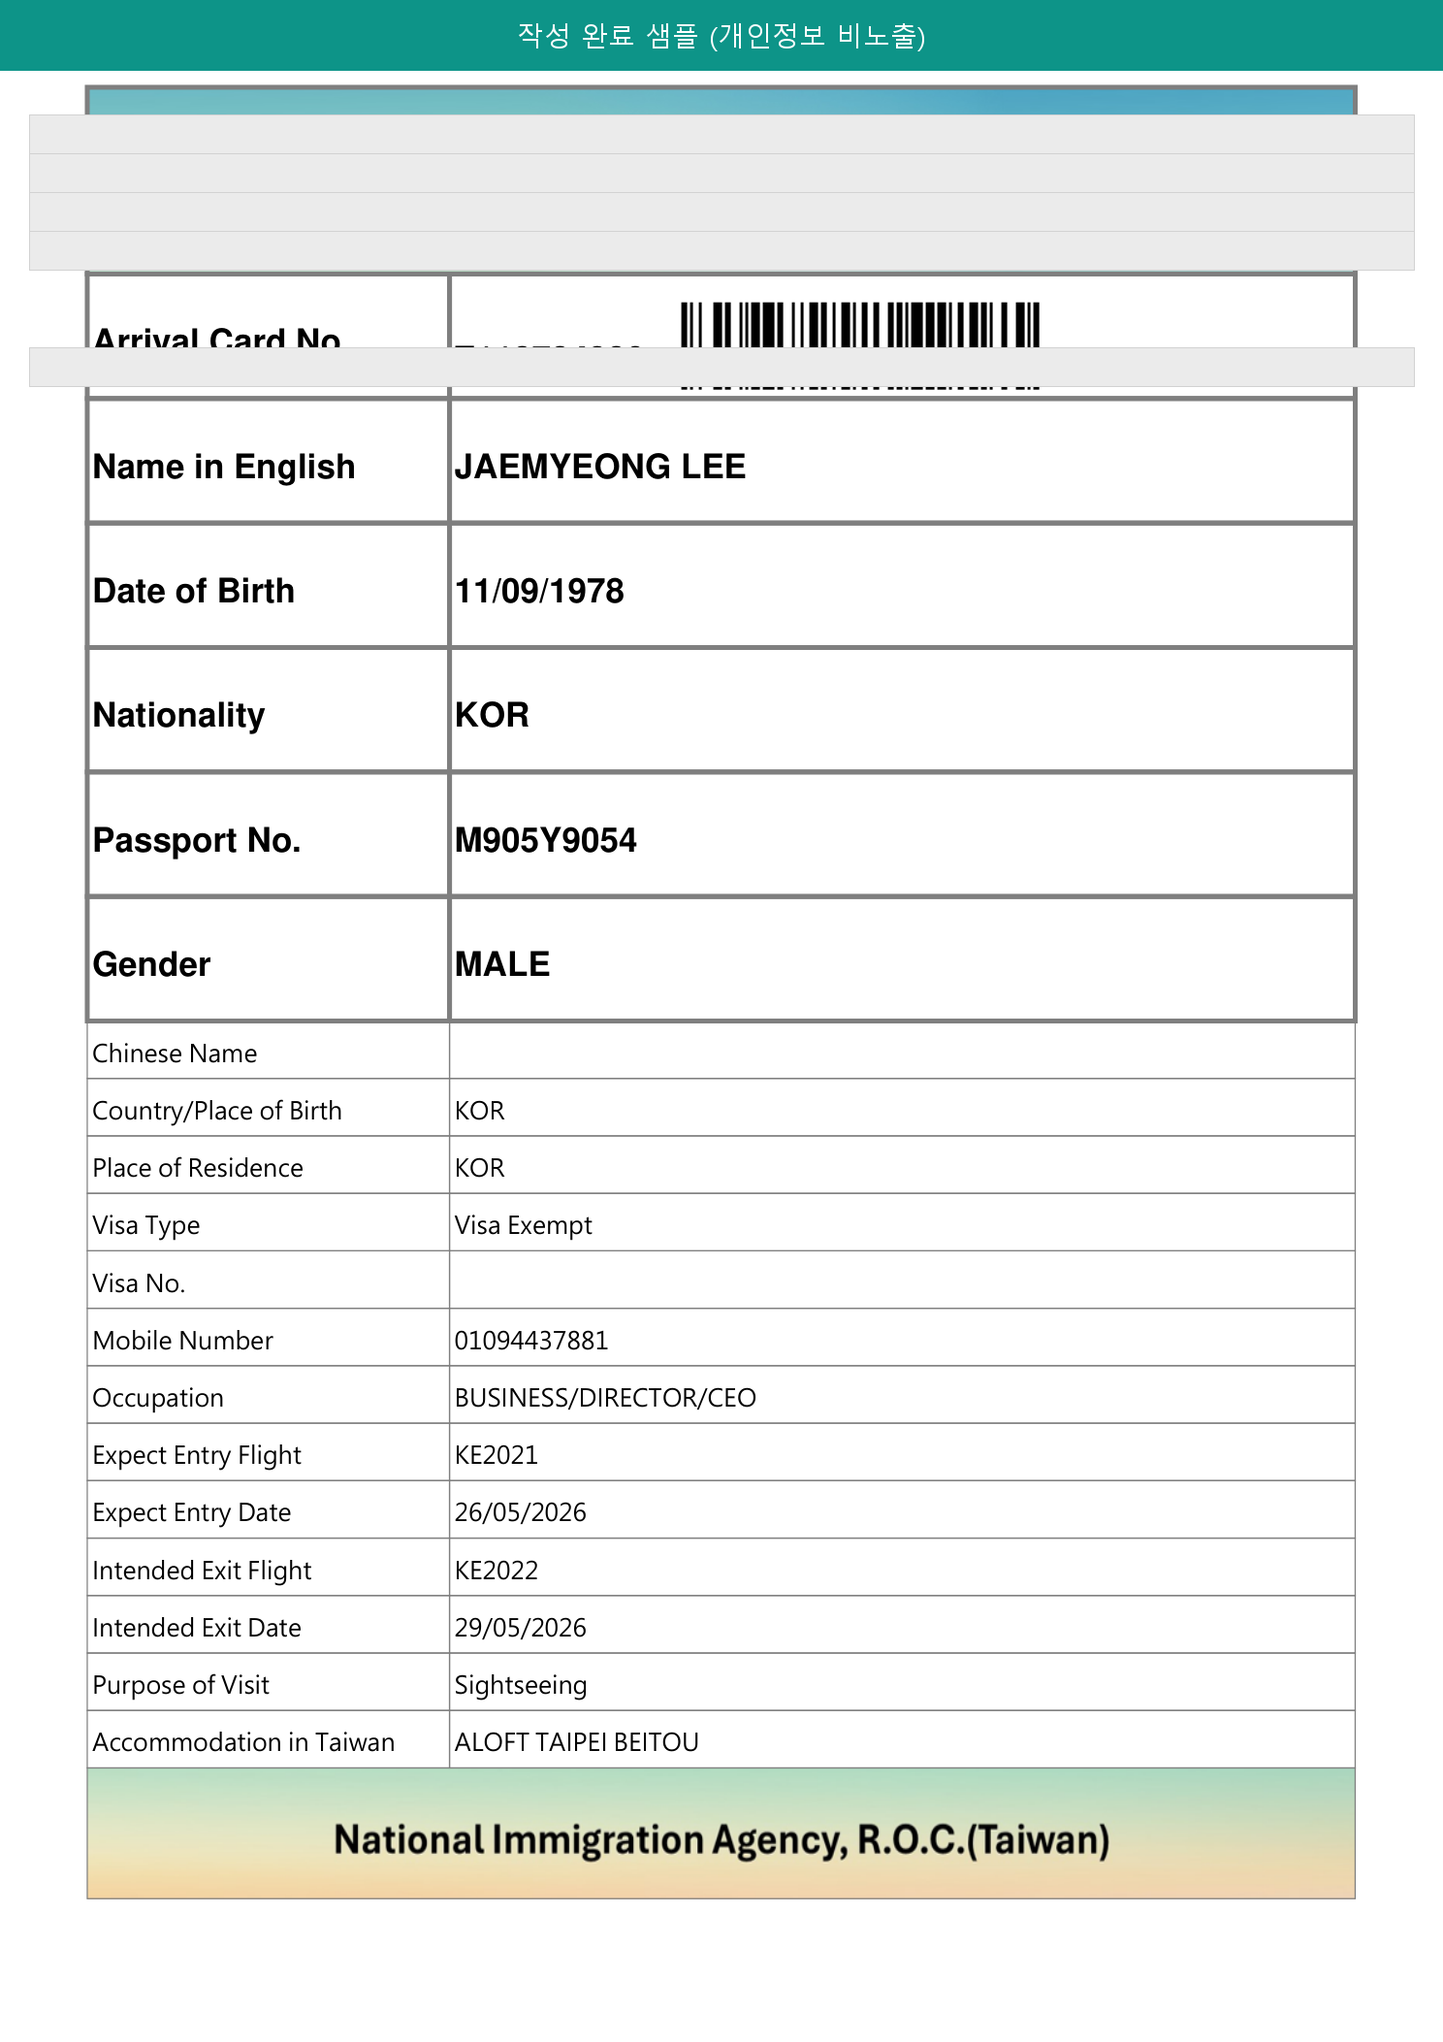
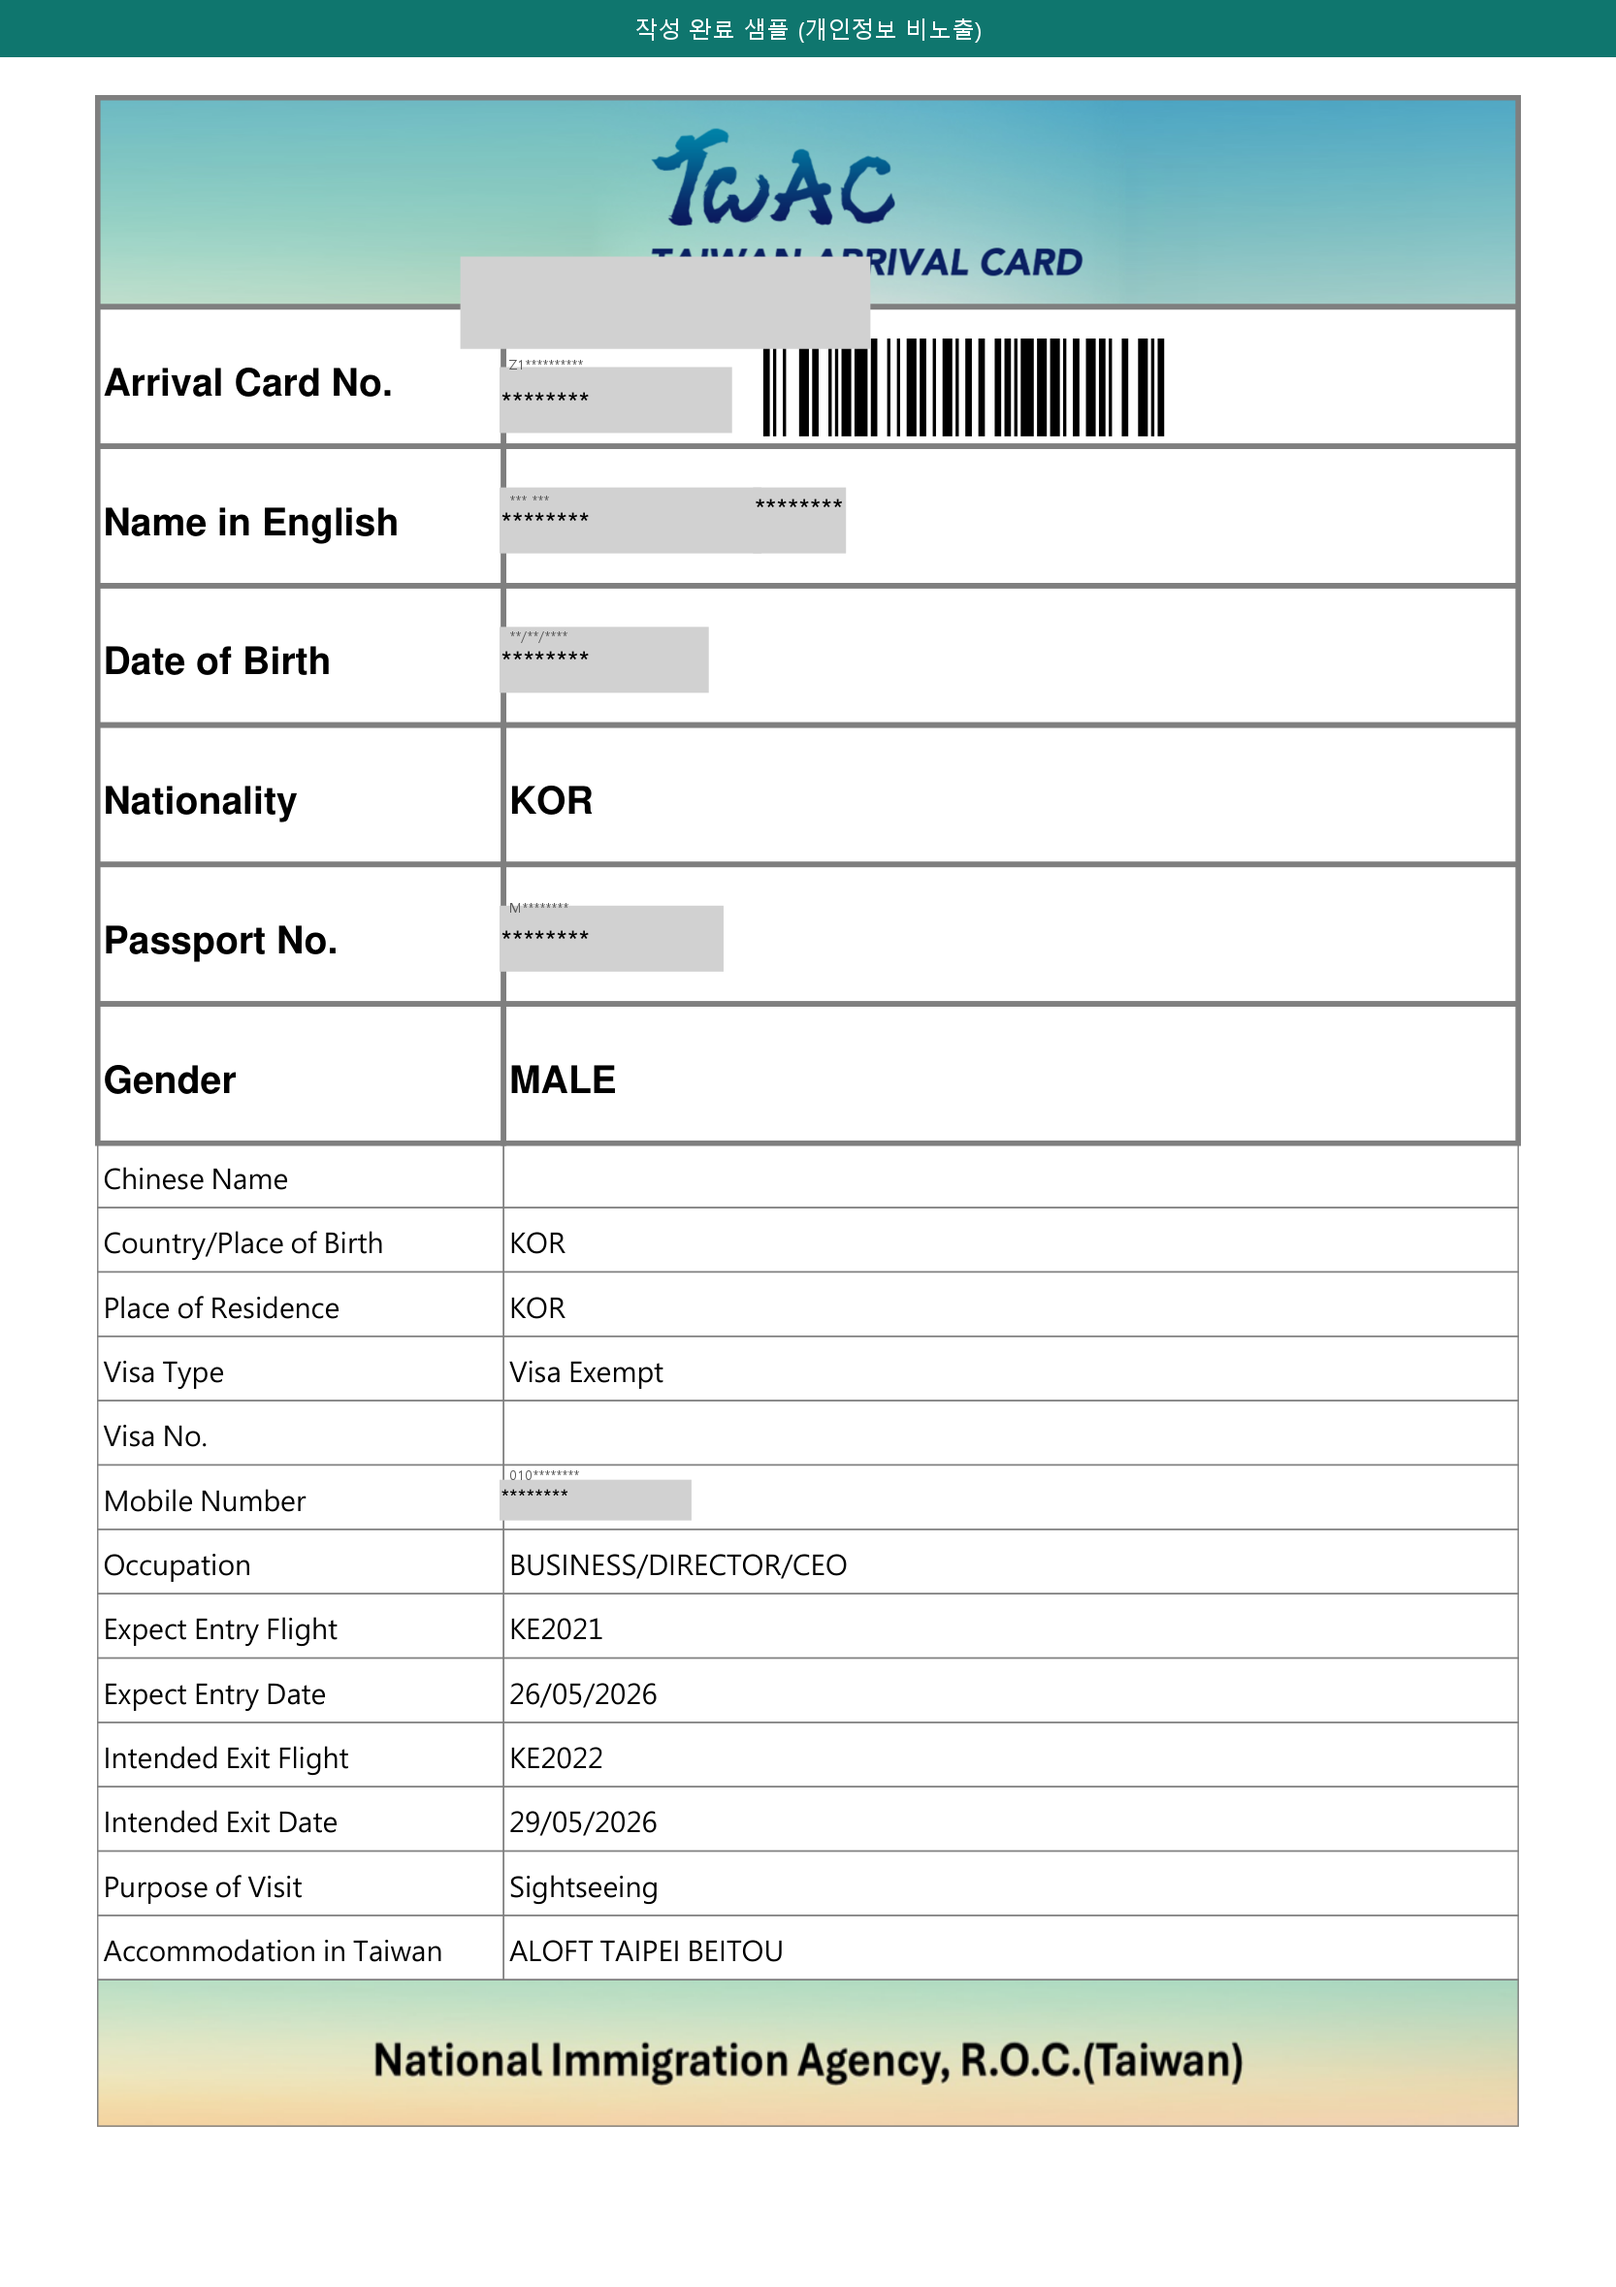
Fix TWAC sample redaction and remove duplicate arrival card instructions.

diff --git a/index.html b/index.html
@@ -222,9 +222,8 @@
                         <ul class="leading-relaxed space-y-2 list-disc list-inside">
                             <li>작성은 <strong>이메일 인증 → 승인 완료</strong> 후에야 본인 정보·여행 정보 입력 단계로 넘어갑니다.</li>
                             <li>인증번호는 메일에 <strong>대·소문자가 섞여</strong> 오지만, 그대로 입력 시 승인이 안 될 수 있습니다. <strong>전부 소문자로 입력</strong>해 보세요.</li>
-                            <li>비자 종류는 한국 국적 기준 <strong>Visa Exempt (비자면제)</strong>를 선택합니다.</li>
-                            <li>여권 영문 이름·생년월일·여권번호는 <strong>여권 사진면과 글자 하나까지 동일</strong>하게 입력합니다. 잘못 입력하면 입국 시 재작성하거나 지연될 수 있습니다.</li>
-                            <li>작성·승인이 완료되면 <strong>인증에 사용한 이메일</strong>로 입국카드(QR코드)가 발송됩니다. 메일을 꼭 확인하고 QR을 저장해 두세요.</li>
+                            <li>여권 영문 이름·생년월일·여권번호는 <strong>여권 사진면과 글자 하나까지 동일</strong>하게 입력합니다.</li>
+                            <li>작성·승인이 완료되면 <strong>인증에 사용한 이메일</strong>로 입국카드(QR코드)가 발송됩니다. 메일을 확인하고 QR을 저장해 두세요.</li>
                             <li>본인 스마트폰(또는 PC)으로 <strong>1인 1회</strong> 작성하며, 단체 입국 시 인솔 선생님·가이드 안내에 따릅니다.</li>
                         </ul>
                     </div>
@@ -243,21 +242,15 @@
                             <div class="bg-slate-50 rounded-lg p-4 border border-slate-100">
                                 <p class="text-xs font-bold text-slate-400 mb-2">입국 항공편 (Expect Entry Flight)</p>
                                 <ul class="space-y-1 text-slate-700">
-                                    <li>항공사: <strong>Korean Air (KE)</strong></li>
                                     <li>편명: <strong>KE2021</strong></li>
                                     <li>입국일: <strong>2026-05-26</strong> (26/05/2026)</li>
-                                    <li>출발: Incheon (ICN) T2 · 10:30</li>
-                                    <li>도착: Taiwan Taoyuan (TPE) T1 · 12:10</li>
                                 </ul>
                             </div>
                             <div class="bg-slate-50 rounded-lg p-4 border border-slate-100">
                                 <p class="text-xs font-bold text-slate-400 mb-2">출국 항공편 (Intended Exit Flight)</p>
                                 <ul class="space-y-1 text-slate-700">
-                                    <li>항공사: <strong>Korean Air (KE)</strong></li>
                                     <li>편명: <strong>KE2022</strong></li>
                                     <li>출국일: <strong>2026-05-29</strong> (29/05/2026)</li>
-                                    <li>출발: Taiwan Taoyuan (TPE) T1 · 13:20</li>
-                                    <li>도착: Incheon (ICN) T2 · 16:50</li>
                                 </ul>
                             </div>
                             <div class="bg-slate-50 rounded-lg p-4 border border-slate-100">
@@ -269,34 +262,18 @@
                     </div>
 
                     <div class="bg-white rounded-2xl shadow-lg border border-teal-100 overflow-hidden">
-                        <div class="bg-slate-700 text-white px-6 py-3 font-bold text-sm flex items-center justify-between gap-2 flex-wrap">
-                            <span>✅ 작성 완료 샘플 (개인정보 비노출)</span>
-                            <span class="text-xs font-normal text-slate-200">실제 승인 후 이메일로 수신되는 형식 참고용</span>
-                        </div>
-                        <div class="p-6 grid md:grid-cols-2 gap-6 items-start">
-                            <div class="rounded-xl border border-slate-200 overflow-hidden shadow-sm bg-slate-50">
+                        <div class="bg-slate-700 text-white px-6 py-3 font-bold text-sm">✅ 작성 완료 샘플 (개인정보 비노출)</div>
+                        <div class="p-6">
+                            <p class="text-sm text-slate-600 mb-4">승인 후 <strong>인증 이메일</strong>로 받는 입국카드 형식입니다. 이름·여권번호·연락처 등은 가려 두었고, <strong>항공편·호텔·비자면제</strong> 항목은 위 복사·메모용과 동일하게 표시됩니다.</p>
+                            <div class="rounded-xl border border-slate-200 overflow-hidden shadow-sm bg-slate-50 max-w-2xl mx-auto">
                                 <img src="assets/twac-sample.png" alt="대만 온라인 입국카드 작성 완료 샘플 (개인정보 비노출)" class="w-full h-auto" loading="lazy">
-                            </div>
-                            <div class="text-sm text-slate-600 space-y-3">
-                                <p class="font-bold text-slate-800">이메일로 받게 되는 입국카드 예시</p>
-                                <p>작성·승인이 끝나면 <strong>인증에 사용한 이메일</strong>로 위와 같은 형식의 입국카드가 발송됩니다. <strong>QR코드</strong>와 <strong>Arrival Card No.</strong>가 포함되어 있으니 스크린샷 또는 PDF 저장 후 입국 시 여권과 함께 제시하세요.</p>
-                                <div class="bg-teal-50 border border-teal-100 rounded-lg p-4 space-y-2 text-slate-700">
-                                    <p class="font-bold text-teal-800 text-xs uppercase tracking-wide">샘플에 표시된 공통 항목 (그대로 입력)</p>
-                                    <ul class="space-y-1 text-xs">
-                                        <li>Visa Type: <strong>Visa Exempt</strong></li>
-                                        <li>Expect Entry Flight: <strong>KE2021</strong> · 26/05/2026</li>
-                                        <li>Intended Exit Flight: <strong>KE2022</strong> · 29/05/2026</li>
-                                        <li>Purpose of Visit: <strong>Sightseeing</strong></li>
-                                        <li>Accommodation: <strong>ALOFT TAIPEI BEITOU</strong></li>
-                                    </ul>
-                                </div>
-                                <p class="text-xs text-slate-400">※ 이름·여권번호·연락처 등 개인정보는 샘플에서 가려 두었습니다.</p>
                             </div>
                         </div>
                     </div>
 
                     <div class="bg-white rounded-2xl shadow-lg border border-teal-100 p-6 md:p-8">
-                        <h3 class="text-xl font-bold text-slate-800 mb-6">📱 온라인 입국신고서 작성 순서 (초보자용)</h3>
+                        <h3 class="text-xl font-bold text-slate-800 mb-2">📱 온라인 입국신고서 작성 순서 (초보자용)</h3>
+                        <p class="text-sm text-slate-500 mb-6">항공편·호텔·비자 등 공통 정보는 위 <strong>「복사·메모용」</strong> 칸을 보며 입력하세요.</p>
                         <ol class="space-y-5 text-sm text-slate-600">
                             <li class="flex gap-3 items-start">
                                 <span class="bg-teal-100 text-teal-700 w-7 h-7 rounded-full flex items-center justify-center font-bold text-xs shrink-0">1</span>
@@ -316,32 +293,12 @@
                             <li class="flex gap-3 items-start">
                                 <span class="bg-teal-100 text-teal-700 w-7 h-7 rounded-full flex items-center justify-center font-bold text-xs shrink-0">3</span>
                                 <div>
-                                    <p class="font-bold text-slate-800">개인정보 입력</p>
-                                    <p class="mt-1">여권의 <strong>Surname(성)</strong>, <strong>Given names(이름)</strong>, 국적(KOR), 생년월일, 여권번호, 여권만료일, 연락처 등을 입력합니다.</p>
-                                    <p class="mt-2">비자 종류는 <strong>Visa Exempt (비자면제)</strong>를 선택합니다. (한국 여권 90일 이내 관광 해당)</p>
+                                    <p class="font-bold text-slate-800">개인정보 · 여행정보 · 숙소 입력</p>
+                                    <p class="mt-1">여권 정보(이름·생년월일·여권번호 등)는 본인 여권대로 입력하고, 비자·항공편·호텔·체류 목적은 <strong>위 복사·메모용</strong>과 같이 입력합니다.</p>
                                 </div>
                             </li>
                             <li class="flex gap-3 items-start">
                                 <span class="bg-teal-100 text-teal-700 w-7 h-7 rounded-full flex items-center justify-center font-bold text-xs shrink-0">4</span>
-                                <div>
-                                    <p class="font-bold text-slate-800">여행 정보 입력 (입국·출국 항공편 모두)</p>
-                                    <p class="mt-1">아래 항목을 위 <strong>복사·메모용</strong> 정보와 동일하게 입력합니다.</p>
-                                    <ul class="mt-2 space-y-1 text-slate-700 bg-slate-50 rounded-lg p-3 border border-slate-100">
-                                        <li>입국 항공편: <strong>KE2021</strong> · 입국일 <strong>2026-05-26</strong></li>
-                                        <li>출국 항공편: <strong>KE2022</strong> · 출국일 <strong>2026-05-29</strong></li>
-                                        <li>체류 목적: <strong>Sightseeing</strong> (관광)</li>
-                                    </ul>
-                                </div>
-                            </li>
-                            <li class="flex gap-3 items-start">
-                                <span class="bg-teal-100 text-teal-700 w-7 h-7 rounded-full flex items-center justify-center font-bold text-xs shrink-0">5</span>
-                                <div>
-                                    <p class="font-bold text-slate-800">숙소 입력</p>
-                                    <p class="mt-1">호텔명만 입력하면 됩니다: <strong>ALOFT TAIPEI BEITOU</strong></p>
-                                </div>
-                            </li>
-                            <li class="flex gap-3 items-start">
-                                <span class="bg-teal-100 text-teal-700 w-7 h-7 rounded-full flex items-center justify-center font-bold text-xs shrink-0">6</span>
                                 <div>
                                     <p class="font-bold text-slate-800">제출 · 승인 · 이메일 확인</p>
                                     <p class="mt-1">작성을 완료하고 제출하면 승인 처리됩니다. 승인 후 <strong>인증에 사용했던 이메일</strong>로 입국카드(QR코드·Arrival Card No.)가 발송되니, 메일함(스팸함 포함)을 확인하고 <strong>QR코드 스크린샷</strong>을 저장해 두세요.</p>
